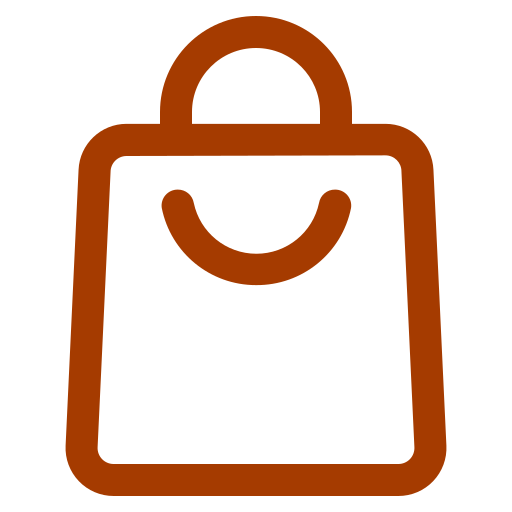
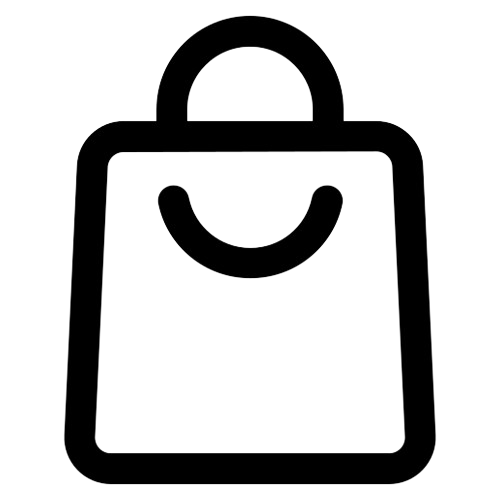
product upload error debug, bg uploading error still bug

Changed region(s): [[0.12, 0.03, 0.87, 0.99], [0.3, 0.36, 0.69, 0.57]]

diff --git a/src/components/store/Logo.tsx b/src/components/store/Logo.tsx
@@ -3,7 +3,7 @@ import { Link } from "@tanstack/react-router";
 export function Logo({ compact = false }: { compact?: boolean }) {
   return (
     <Link to="/" className="group flex items-center gap-2.5" aria-label="SheikhStore home">
-      <span className="relative grid size-9 place-items-center rounded-xl bg-ink text-primary-foreground shadow-sm">
+      <span className="relative grid size-12 place-items-center rounded-xl bg-ink text-primary-foreground shadow-sm">
         {/* <svg viewBox="0 0 24 24" className="size-5" aria-hidden="true">
           <path
             d="M12 2.5 21 7v5.5c0 4.6-3.6 8.1-9 9.5-5.4-1.4-9-4.9-9-9.5V7l9-4.5Z"
@@ -21,7 +21,7 @@ export function Logo({ compact = false }: { compact?: boolean }) {
             className="text-gold"
           />
         </svg> */}
-        <img src="/public/Sheikh_logo.jpg" alt="logo" />
+        <img src="/Sheikh_logo.png" alt="logo" className="size-10" aria-hidden="true"/>
       </span>
       <span className="flex flex-col leading-none">
         <span className="font-display text-lg font-bold tracking-tight">

diff --git a/src/routes/index.tsx b/src/routes/index.tsx
@@ -28,7 +28,7 @@ export const Route = createFileRoute("/")({
 
 const perks = [
   { icon: Truck, title: "Nationwide shipping", copy: "Free delivery all across Pakistan" },
-  { icon: RefreshCcw, title: "7-day easy exchange", copy: "Quick, hassle-free size or item swaps" },
+  { icon: RefreshCcw, title: "Easy exchange", copy: "Quick, hassle-free size or item swaps" },
   { icon: Wallet, title: "Cash on delivery", copy: "Pay at your doorstep, anywhere in Pakistan" },
 ];
 
@@ -73,7 +73,7 @@ function Index() {
           </div>
           <img
             // src={/product1.jpeg}
-            // src={product1}
+            // src={Product}
             alt="Curated flat lay of premium SheikhStore accessories"
             width={1600}
             height={1100}

diff --git a/src/routes/__root.tsx b/src/routes/__root.tsx
@@ -109,7 +109,7 @@ export const Route = createRootRouteWithContext<{ queryClient: QueryClient }>()(
         rel: "stylesheet",
         href: appCss,
       },
-      { rel: "icon", href: "/public/bag.png", type: "image/x-icon" },
+      { rel: "icon", href: "/bag.png", type: "image/x-icon" },
     ],
   }),
   shellComponent: RootShell,
